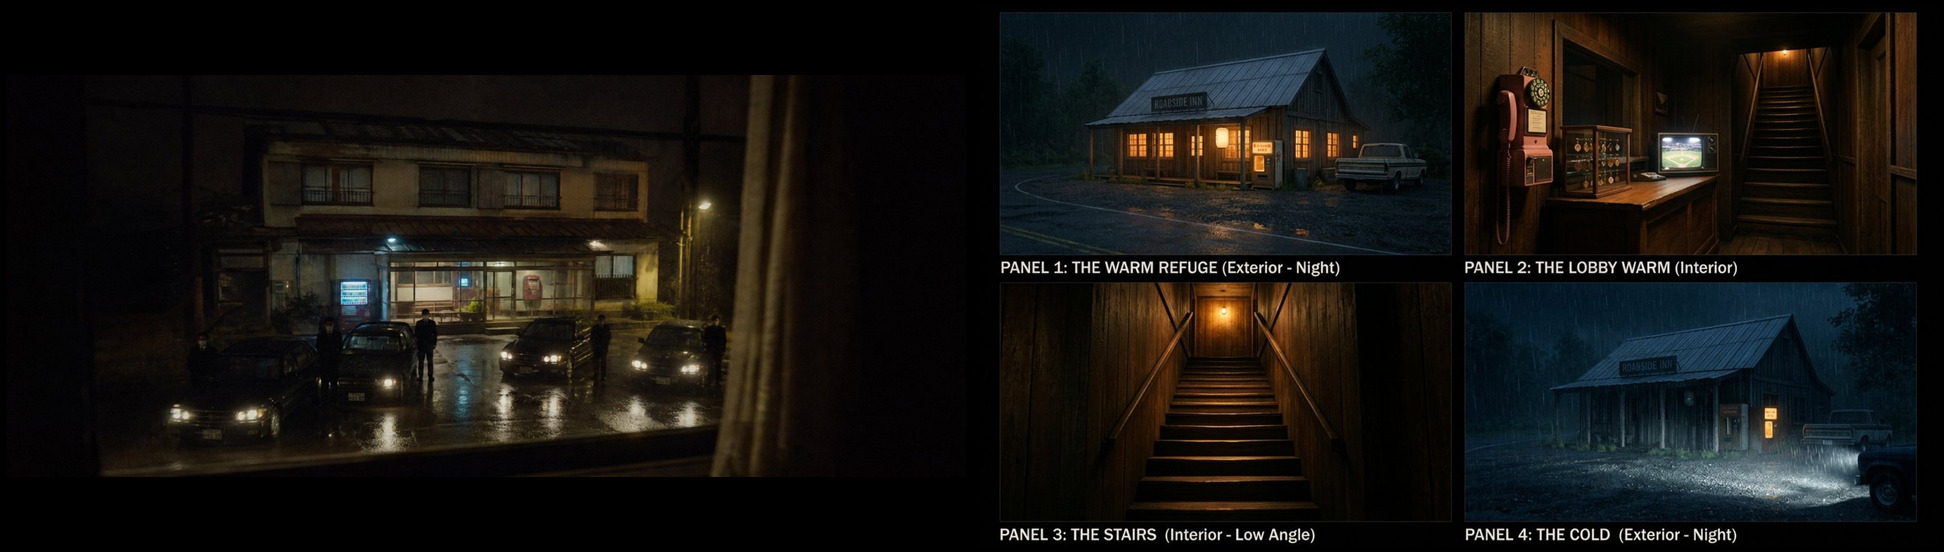
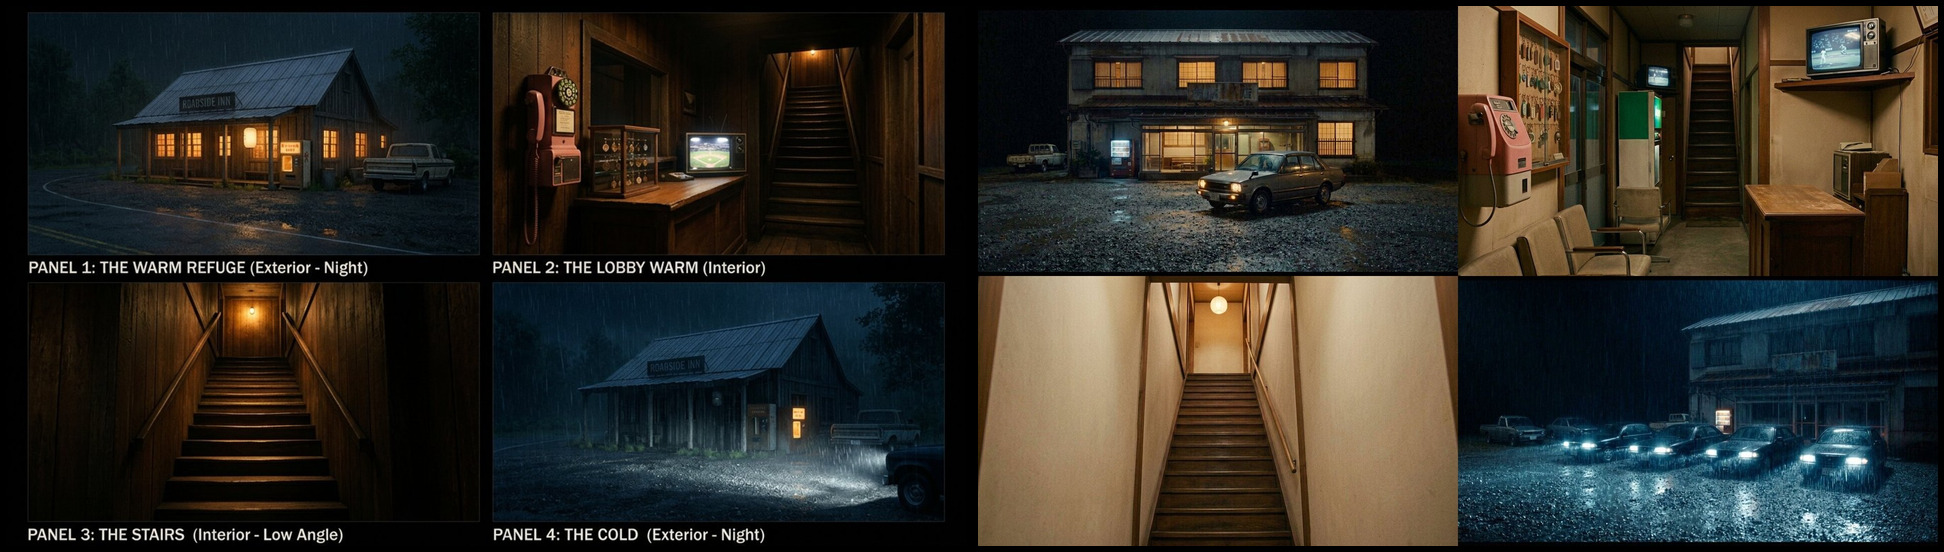
Neonoire: rebuild the roadside inn style sheet — the lobby panel from its master
The lobby panel on the first sheet read wrong (director's read). The sheet
is now a deterministic 2×2 composite instead of one free generation: four
panels, each generated from its approved master frame and composited at
fixed positions — s31/169 (warm exterior), s32/170-just-one-night.jpg
(the lobby, now reproducing the boarded master exactly), s32/171 (the
stairs), s38/173 (the cold lot with the sedans' beams). Panels are
unlabelled (the renderer cannot set type); the ledger and innBase name
them. Review: reviews/roadside-inn-sheet-review.jpg, first sheet beside
the rebuild.

diff --git a/docs/neonoire/passes/roadside-inn.md b/docs/neonoire/passes/roadside-inn.md
@@ -58,13 +58,22 @@ Every image is now checked before install for vehicle count, completeness and di
 
 **The style sheet.** The inn had a studio key (`keys/09-the-roadside-inn.jpg`) and its look file,
 but no canon sheet in `sheets/`. It has one now: `public/images/neonoire/sheets/roadside-inn.jpg`,
-1920×1080, four labelled panels — the exterior as the WARM REFUGE (tungsten amber windows, the
-beer vending machine, the pickup crooked behind), the lobby warm (pink payphone, keyring case,
-CRT baseball, wooden counter, the steep stair), the stairs from the low level static square to
-the flight, and the same exterior as THE COLD (steel blue and blue-black, xenon-white headlight
-beams with the rain visible only inside them, every warm light dead). Panels: the sheet is
-people-free on purpose, so it works as a set reference for any shot. `innBase` in
-`scripts/neonoire/inn-look.mjs` now points every inn prompt at it.
+1920×1080 — the exterior as the WARM REFUGE (tungsten amber windows, the beer vending machine,
+the pickup crooked behind), the lobby warm (pink payphone, keyring case, CRT baseball, wooden
+counter, the steep stair), the stairs from the low level static square to the flight, and the
+same lot as THE COLD (steel blue and blue-black, xenon-white headlight beams with the rain
+visible only inside them, every warm light dead). The sheet is people-free on purpose, so it
+works as a set reference for any shot. `innBase` in `scripts/neonoire/inn-look.mjs` now points
+every inn prompt at it.
+
+**The lobby panel was wrong on the first sheet** (director's read, same day). The sheet is now a
+deterministic 2×2 composite instead of one free generation: four panels, each generated from its
+approved master frame and composited at fixed positions — `s31/169-the-only-car.jpg` (warm
+exterior, top left), `s32/170-just-one-night.jpg` (the lobby, top right — the panel in question,
+now reproducing the boarded lobby master), `s32/171-upstairs-at-the-end.jpg` (the stairs, bottom
+left), `s38/173-four-black-sedans.jpg` (the cold lot, bottom right). The panels carry no labels
+(the renderer cannot set type), so the ledger and `innBase` name them. Review:
+`reviews/roadside-inn-sheet-review.jpg` shows the first sheet beside the rebuild.
 
 **The mask rule (director's confirmation).** The masked men at the inn are the same crew as
 scene 1: dark knit caps over **black lower-face masks** covering nose and mouth, eyes visible —
@@ -82,9 +91,9 @@ everything else held to the previous frame:
 | 224 | `s47/222-mud-and-impacts.jpg` | the man coming round the building |
 | 217 | `s49/215-no-need-to-chase.jpg` | the eight in the headlights |
 
-Review sheets: `public/images/neonoire/reviews/roadside-inn-sheet-review.jpg` (the studio key
-beside the new sheet) and `public/images/neonoire/reviews/roadside-inn-masks.jpg` (the six
-retaken frames). Caveats: all seven images are verified at 1920×1080; the session's image viewer
+Review sheets: `public/images/neonoire/reviews/roadside-inn-sheet-review.jpg` (the first sheet
+beside the master-grounded rebuild) and `public/images/neonoire/reviews/roadside-inn-masks.jpg`
+(the six retaken frames). Caveats: all seven images are verified at 1920×1080; the session's image viewer
 is unreliable, so give both review sheets a full-size look — in particular that the masks read
 black and lower-face in the glare frames. Labels on the style sheet garble in places, as ever.
 `verify-neonoire.mjs` locks the sheet at 16:9, the `innBase` guard wording and the six board notes.
